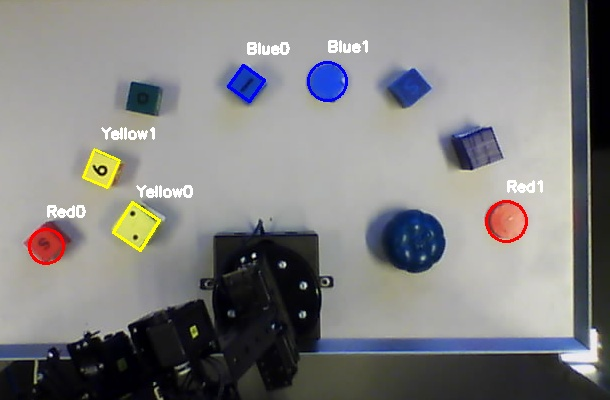
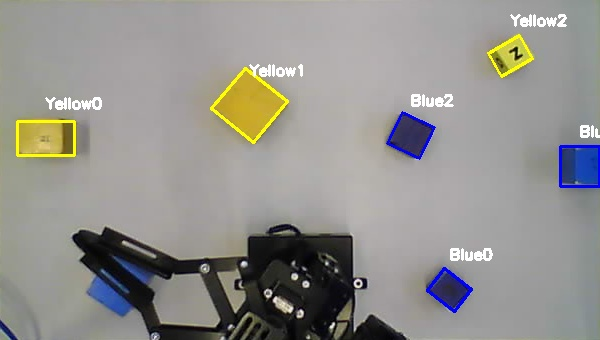
Limited to yellow and blue colors

diff --git a/Computer_vision/computerVision.py b/Computer_vision/computerVision.py
@@ -47,13 +47,14 @@ class computerVision:
             epsilon = 0.04*cv2.arcLength(cnt,True)
             approx = cv2.approxPolyDP(cnt,epsilon,True) 
             
+            # if len(approx) > 3 or len(approx) < 5 :
             if len(approx) == 4:
                 rect = cv2.minAreaRect(approx)
                 area = cv2.contourArea(approx)
                 box = cv2.boxPoints(rect)
                 box = np.int0(box)
 
-                if area > 600 and area < 5000:
+                if area > 600 and area < 4000:
 
                     brick = Brick()
                     area = np.int0(area)
@@ -66,25 +67,25 @@ class computerVision:
                     brick.set_box(box)
 
                     bricks.append(brick)
-            elif len(approx) > 4:
-                (x,y),radius = cv2.minEnclosingCircle(cnt)
-                center = (int(x),int(y))
-                radius = int(radius)
-                area = radius*radius*math.pi
+            # elif len(approx) > 4:
+            #     (x,y),radius = cv2.minEnclosingCircle(cnt)
+            #     center = (int(x),int(y))
+            #     radius = int(radius)
+            #     area = radius*radius*math.pi
 
-                if area > 600 and area < 2000:
+            #     if area > 600 and area < 2000:
 
-                    brick = Brick()
-                    area = np.int0(area)
+            #         brick = Brick()
+            #         area = np.int0(area)
                 
-                    brick.set_area(area)
-                    brick.set_center(center)
-                    brick.set_radius(radius)
-                    # brick.set_center(center)
-                    # brick.set_angle(0)
-                    # brick.set_box(0)
+            #         brick.set_area(area)
+            #         brick.set_center(center)
+            #         brick.set_radius(radius)
+            #         # brick.set_center(center)
+            #         # brick.set_angle(0)
+            #         # brick.set_box(0)
 
-                    bricks.append(brick)
+            #         bricks.append(brick)
 
         
                 
@@ -100,7 +101,7 @@ class computerVision:
         mask = cv2.inRange(hsv, lower, upper)
         res = cv2.bitwise_and(image,image, mask= mask)
 
-        res = cv2.medianBlur(res, 9)
+        res = cv2.medianBlur(res, 5)
         return res
 
     def threshold_image(self, image,debug=False):
@@ -191,8 +192,8 @@ class Brick(object):
 
         tempCenter = [0] * 2
 
-        tempCenter[0] = center[0] - 295 # Xcoord offset
-        tempCenter[1] = 310 - center[1] # Ycoord offset
+        tempCenter[0] = center[0] - 286 # Xcoord offset
+        tempCenter[1] = 301 - center[1] # Ycoord offset
 
         self.centerFromRobot = tempCenter
 
@@ -230,56 +231,43 @@ vision = computerVision()
 # image = vision.get_from_file('test4.jpg')
 # image = vision.get_from_file('test5.jpg')
 
-image = vision.get_from_file('test5.jpg')
-# image = vision.get_from_webcam()
+# image = vision.get_from_file('test5.jpg')
+image = vision.get_from_webcam()
 
 # cap = cv2.VideoCapture(0)
 # _, image = cap.read()
 # image = image[100:450, 30:650] # crop_img = img[y:y+h, x:x+w]
-image = image[50:450, 30:650] # crop_img = img[y:y+h, x:x+w]
+image = image[72:412, 30:630] # crop_img = img[y:y+h, x:x+w]
 
 hsv = cv2.cvtColor(image, cv2.COLOR_BGR2HSV)
 
 # hsv hue sat value
 
 
-lower_blue = np.array([100,150,150])
-upper_blue = np.array([190,255,255])
-
-lower_yellow = np.array([25,100,50])    
-upper_yellow = np.array([50,255,230])
-
-lower_red = np.array([0,75,75])
-upper_red = np.array([15,255,255])
-
-lower_redHigh = np.array([200,125,125])
-upper_redHigh = np.array([255,255,255])
-
-
 # this one works quite fine
 ###################
 
-# lower_blue = np.array([50,150,100])
-# upper_blue = np.array([160,255,200])
+lower_blue = np.array([70,50,50])
+upper_blue = np.array([190,255,255])
 
-# lower_yellow = np.array([10,100,50])
-# upper_yellow = np.array([50,255,230])
+lower_yellow = np.array([15,100,50])
+upper_yellow = np.array([50,255,255])
 
-# lower_red = np.array([0,75,150])
-# upper_red = np.array([25,255,255])
+# lower_red = np.array([0,75,100])
+# upper_red = np.array([23,255,225])
 
 ####################
 
 
 blue_bricks = vision.do_full(image,hsv,upper_blue,lower_blue, True)
 yellow_bricks = vision.do_full(image,hsv,upper_yellow,lower_yellow)
-red_bricks = vision.do_full(image,hsv,upper_red,lower_red)
-red_bricksHigh = vision.do_full(image,hsv,upper_redHigh,lower_redHigh)
+# red_bricks = vision.do_full(image,hsv,upper_red,lower_red, True)
+# red_bricksHigh = vision.do_full(image,hsv,upper_redHigh,lower_redHigh)
 
 vision.show_bricks(image,blue_bricks,(255,0,0), 'Blue')
 vision.show_bricks(image,yellow_bricks,(0,255,255), 'Yellow')
-vision.show_bricks(image,red_bricks,(0,0,255), 'Red')
-vision.show_bricks(image,red_bricksHigh,(0,0,255), 'RedHigh')
+# vision.show_bricks(image,red_bricks,(0,0,255), 'Red')
+# vision.show_bricks(image,red_bricksHigh,(0,0,255), 'RedHigh')
 
 # centerX = 295, centerY = 310
 
@@ -301,14 +289,14 @@ for b in yellow_bricks:
 
     print 'Yellow object ' + ':' +  str(center) + ' //// angle: ' + str(angle) + ' //// area: ' + str(area) 
     
-for b in red_bricks:
+# for b in red_bricks:
 
-    center = b.get_centerFromRobot()
-    angle = b.angle
-    area = b.area
-    # center = find_center_coordinate(b[0],b[2])
+#     center = b.get_centerFromRobot()
+#     angle = b.angle
+#     area = b.area
+#     # center = find_center_coordinate(b[0],b[2])
 
-    print 'Red object ' + ':' +  str(center) + ' //// angle: ' + str(angle)  + ' //// area: ' + str(area) 
+#     print 'Red object ' + ':' +  str(center) + ' //// angle: ' + str(angle)  + ' //// area: ' + str(area) 
 
 # for b in red_bricks2:
 
